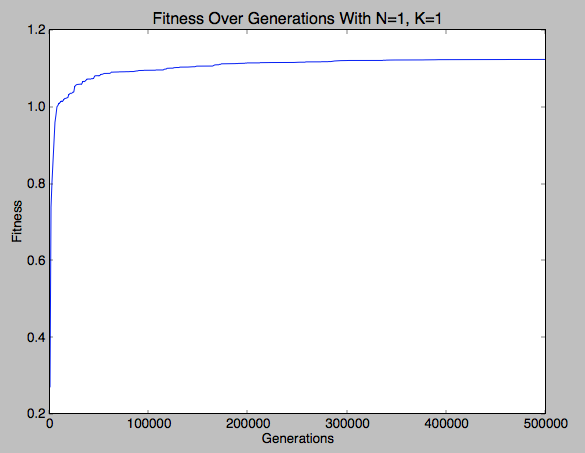
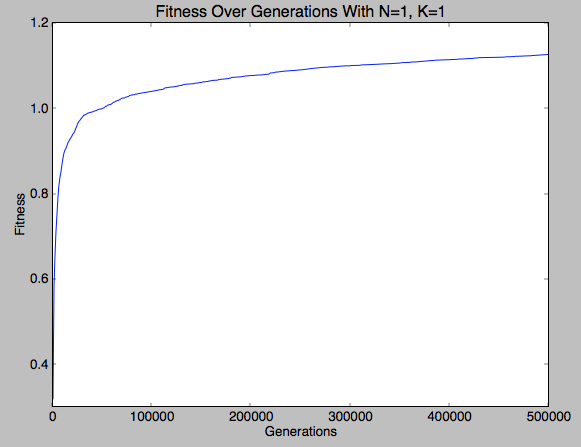
Upload darwin animation and plots

diff --git a/Plot.py b/Plot.py
@@ -118,7 +118,7 @@ class Plot( object ):
                 
          
     
-Plot.plot_data( "turing.out" )
+Plot.plot_data( "darwin.out" )
 #Plot.plot_tuning( "turing_tuning.out" )
 #Plot.plot_tuning_average([ "darwin_tuning.out" , "haystack_tuning.out" , "michigan_tuning.out" , "mona_lisa_tuning.out" , "turing_tuning.out"] )
     

diff --git a/GenAPNG.py b/GenAPNG.py
@@ -12,4 +12,4 @@ def gen( directory ):
     
     print cmd
     
-gen( "turing" )
+gen( "darwin" )
